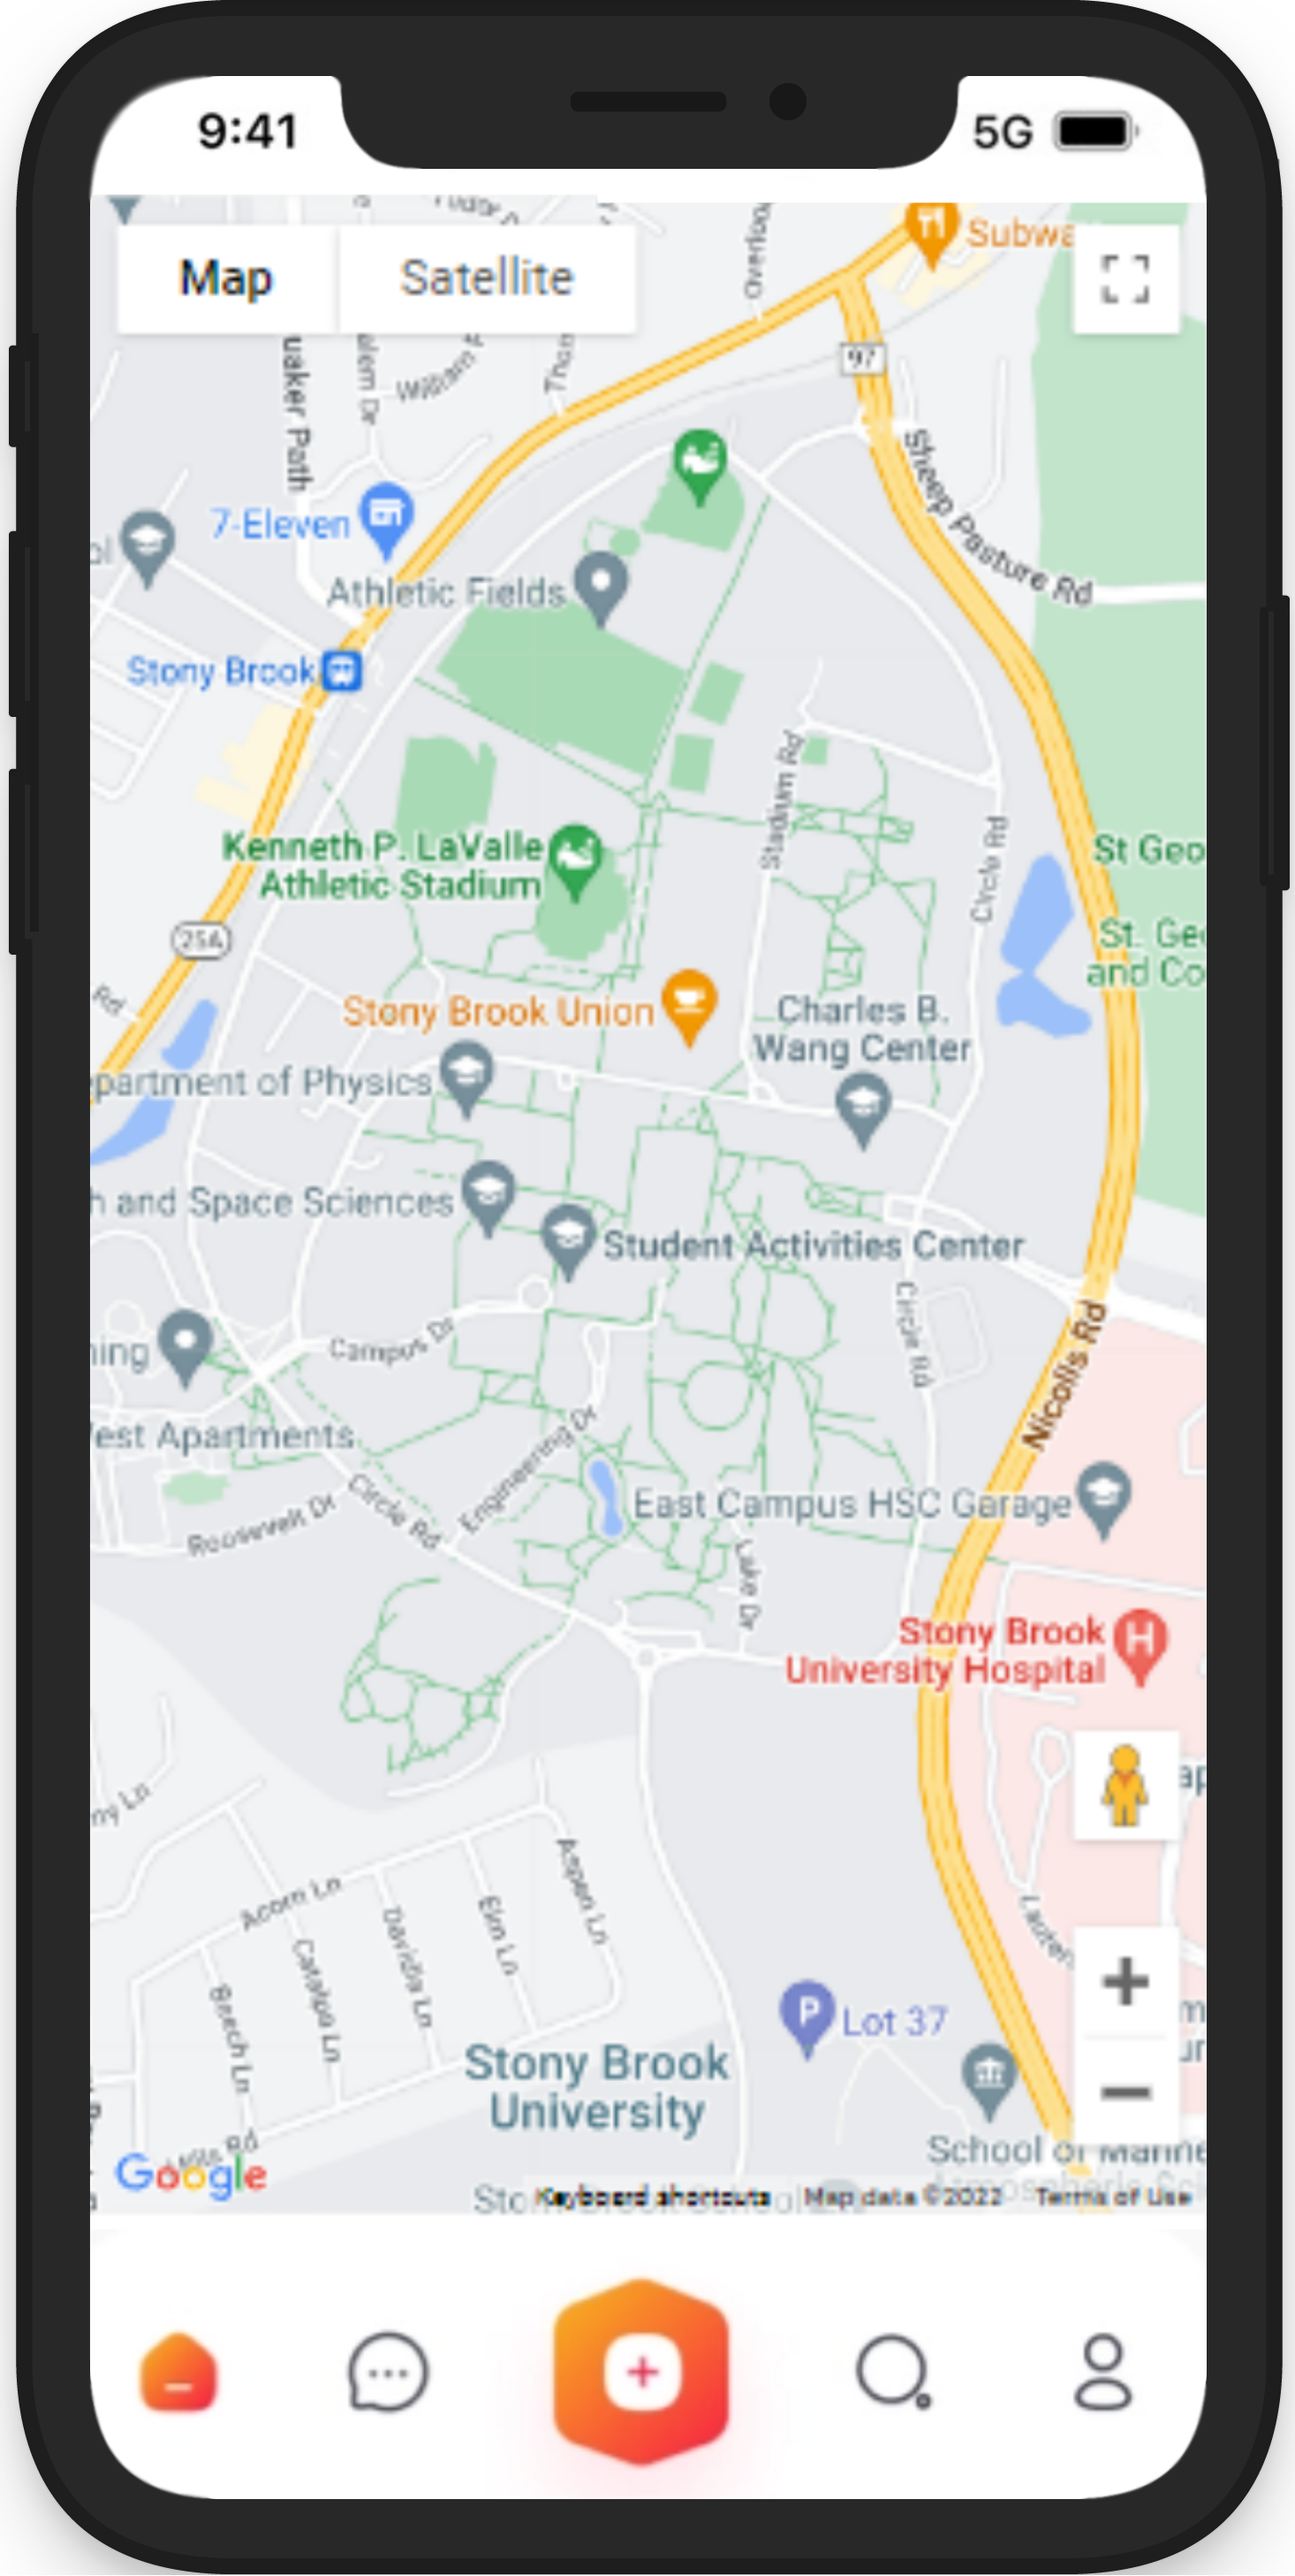
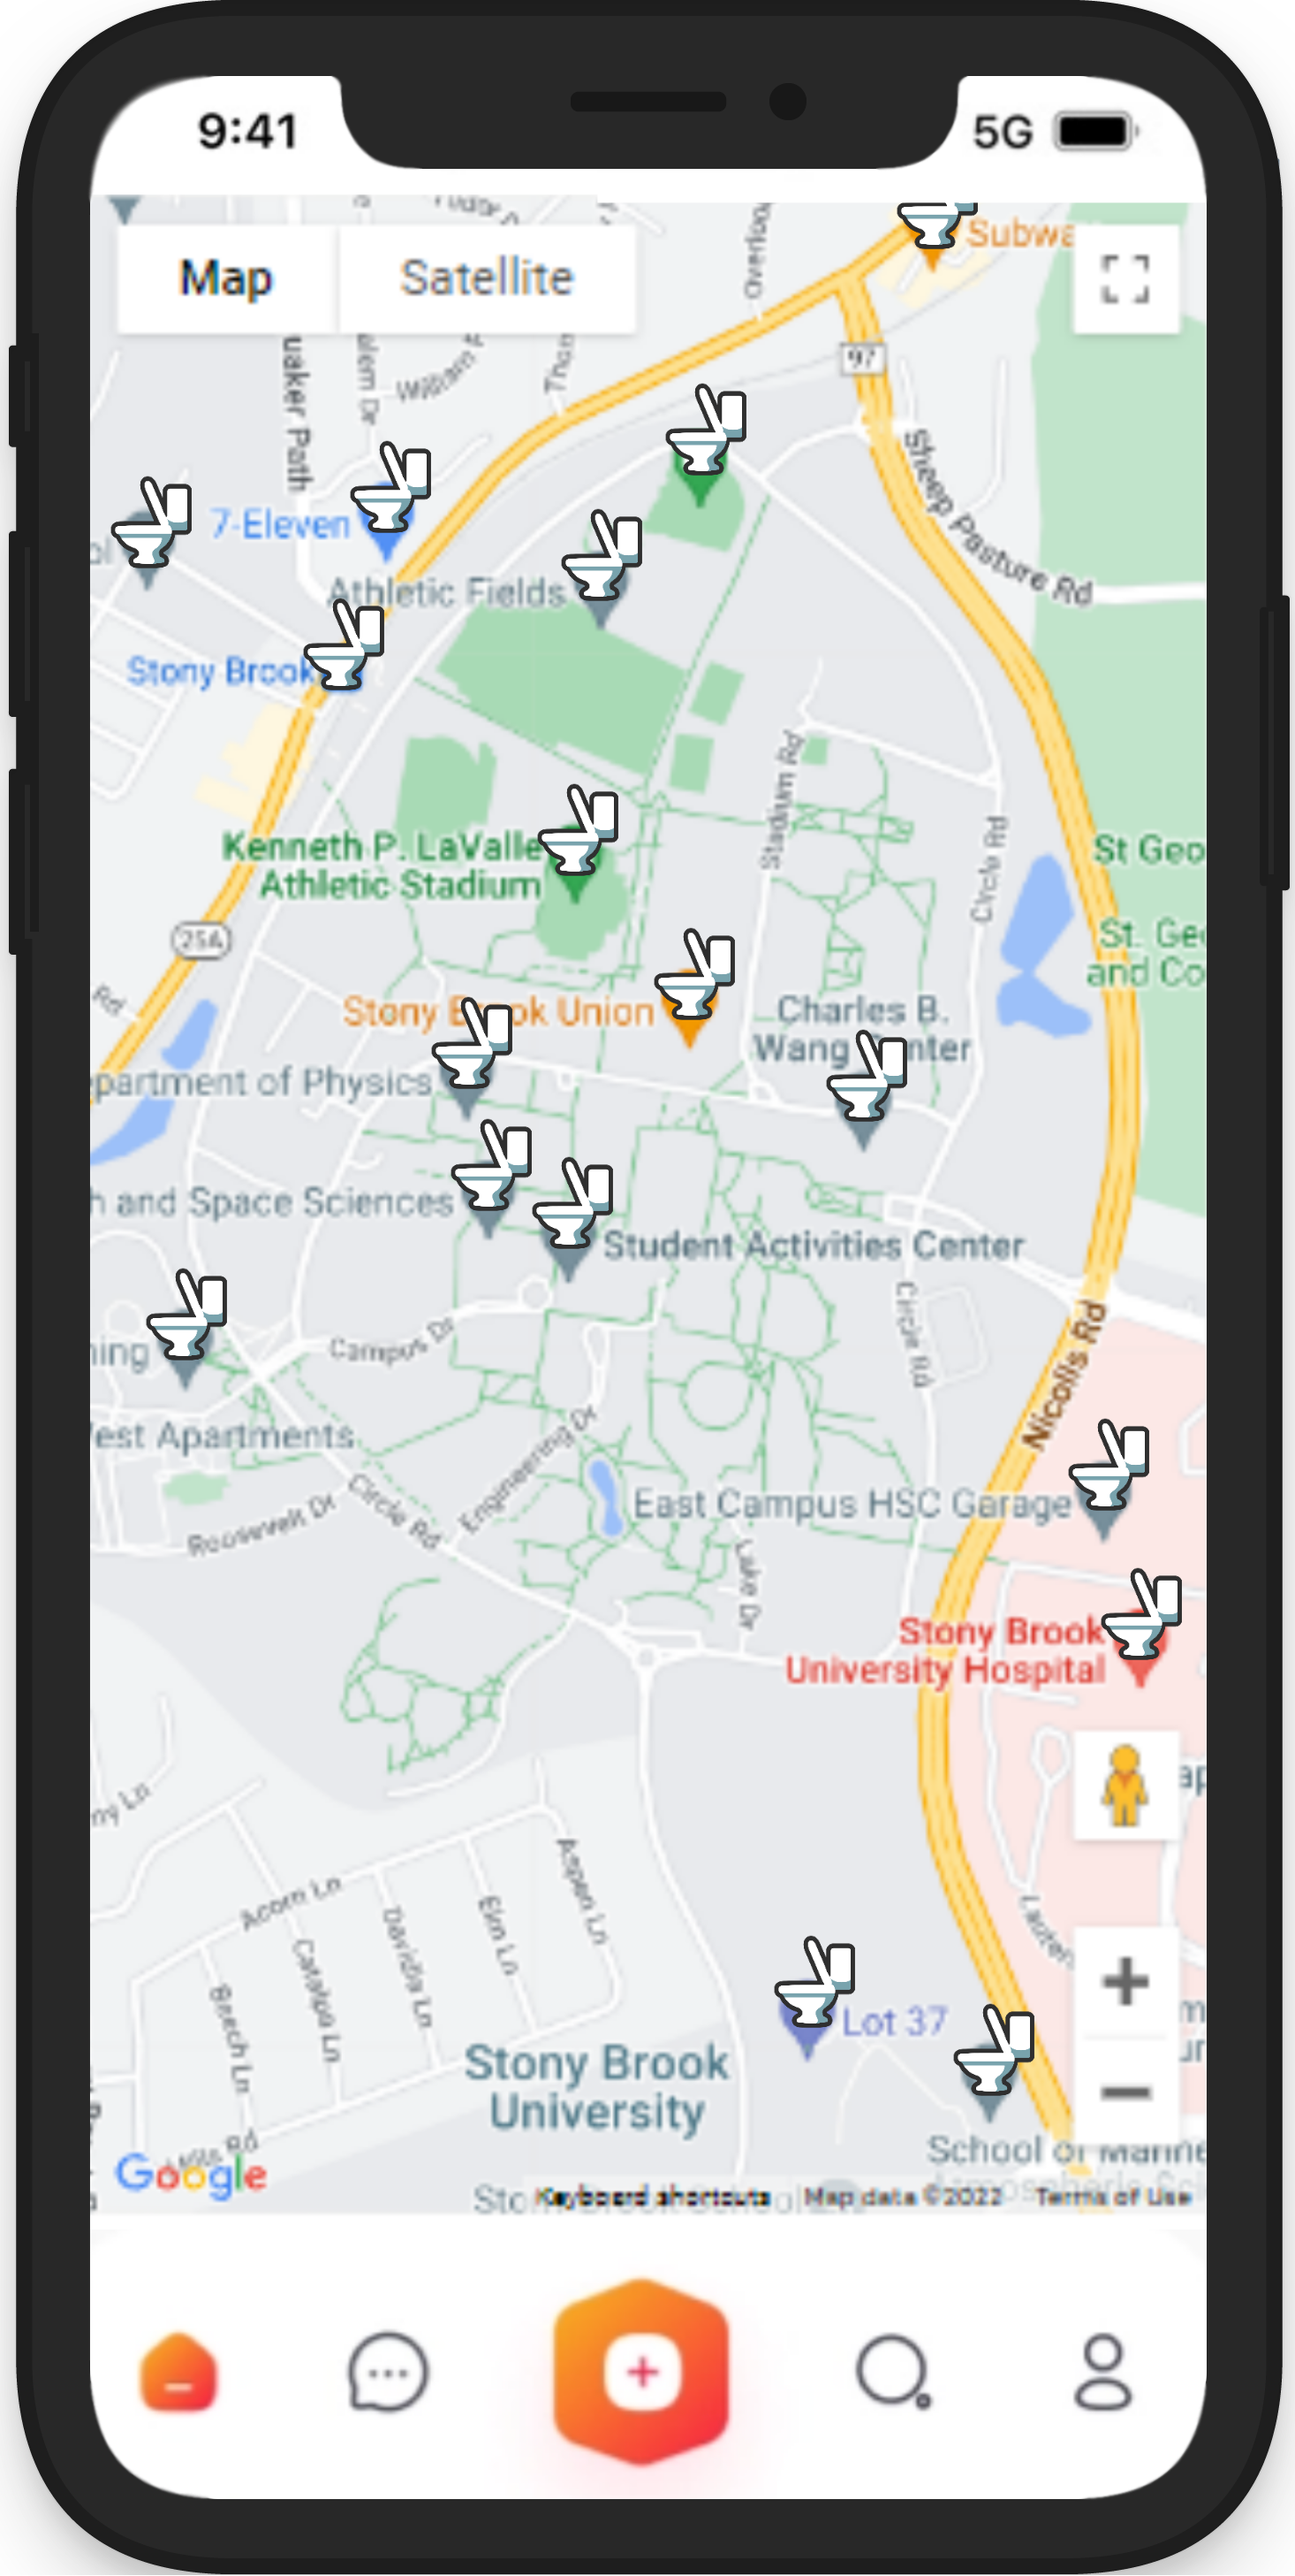
added toilet lol

diff --git a/frontEnd/index.html b/frontEnd/index.html
@@ -2,7 +2,7 @@
 <html>  
 <head>
     <meta name = "viewport" content = "with=device-width, initial-scale=1.0">
-    <title>PitHub</title>
+    <title>Sh*tHub</title>
     <link rel="stylesheet" href="style1.css">
     <link rel="preconnect" href="https://fonts.googleapis.com">
 <link rel="preconnect" href="https://fonts.gstatic.com" crossorigin>
@@ -21,13 +21,13 @@
             </div>
         </nav>
 <div class="text-box">
-    <h1>PitHub 💩</h1>
+    <h1>ShitHub 💩</h1>
     <p>"A Repository for Bathrooms"</p>
     <a href="map.html" class="hero-btn">Demo</a>
 </div>
     </section>
 <section class="course">
-    <h1>What is PitHub?</h1>
+    <h1>What is ShitHub?</h1>
     <p>A Community-Driven Restroom Locator Using Open Street Maps API</p>
     <h2>What it looks like:</h2>
     <img src = "image/PhoneMap.png" style="width:251px;height:500px;">
